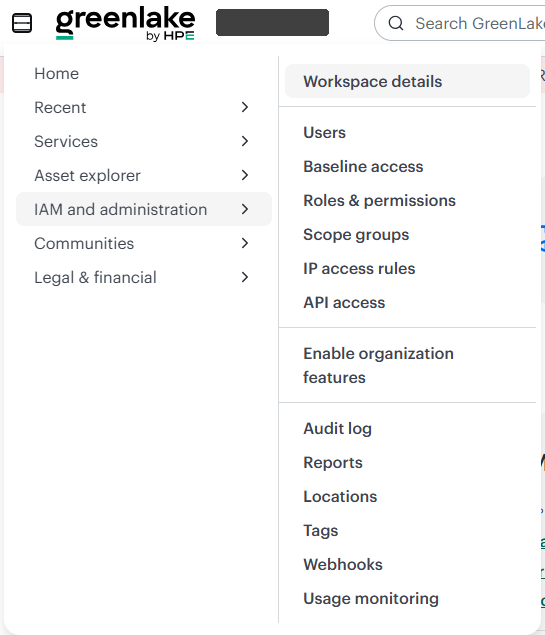
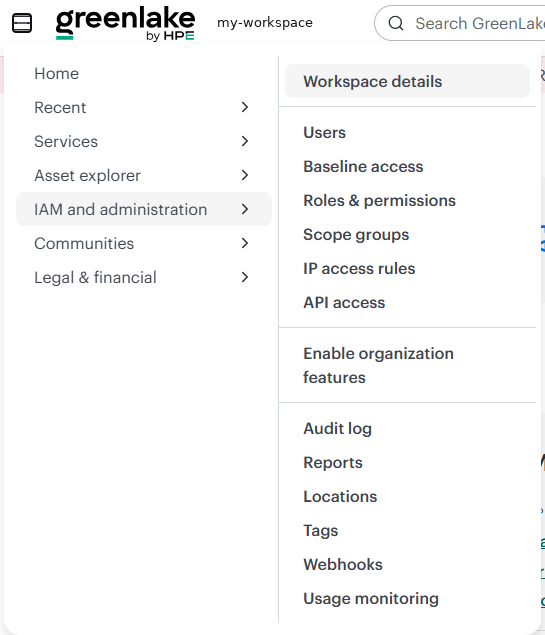
Docs: example values in every screenshot; the plugin in the Morpheus UI
- Screenshots use consistent example values (host-a, cluster-a,
  XYZ0000001, 192.0.2.21, workspace my-workspace) instead of blocks.
- README: annotated host and cluster pages from a real Morpheus 9.0.1
  appliance and a "See it in Morpheus" section.
- INSTALL: example-values table and the settings screenshot (step 4).
- SCREENSHOT-SPEC, CONTRIBUTING and the bug template describe the rule.

Changed region(s): [[0.3743, 0.0, 0.6239, 0.0598]]

diff --git a/docs/INSTALL.md b/docs/INSTALL.md
@@ -4,7 +4,17 @@
 
 This guide assumes you've never installed a Morpheus plugin or created a GreenLake API client before. Every step says where to click and what you should see. Allow about 20 minutes.
 
-*The screenshots are from a real Morpheus 9.0.1 appliance and GreenLake workspace, with names, addresses and ids blocked out.*
+*The screenshots are from a real Morpheus 9.0.1 appliance and GreenLake workspace. Names, addresses and ids are replaced with example values, and each example value means the same thing everywhere in this guide and the README:*
+
+| In the examples | Example value |
+|---|---|
+| GreenLake workspace | `my-workspace`, workspace ID `4f2a9c7e1b8d4e6fa3c5d7e9b1f20a64` |
+| API client ID | `7c3e8a12-5b4f-4d9e-a6c1-2f8b0d4e9a37` |
+| Morpheus appliance | `morpheus.example.com`, signed in as `admin` (shown as **Admin User**) |
+| Cloud, cluster and site tag | `cloud-a`, `cluster-a`, `site-a` |
+| Hosts and their serial numbers | `host-a`, `host-b`, `host-c`; `XYZ0000001`, `XYZ0000002`, `XYZ0000003` |
+| host-a's iLO | `192.0.2.21`, `ilo-host-a.example.com` |
+| COM region | US West (`us-west`) |
 
 ## Before you start
 
@@ -30,9 +40,9 @@ The workspace ID tells GreenLake which workspace the plugin's sign-in is for. Wi
 
    ![GreenLake menu: IAM and administration, Workspace details](images/install-01-greenlake-menu.png)
 
-3. Copy the **Workspace ID**. It's 32 letters and digits. Paste it into a note for step 4.
+3. Copy the **Workspace ID**. It's 32 letters and digits, like `4f2a9c7e1b8d4e6fa3c5d7e9b1f20a64` in the example below. Paste it into a note for step 4.
 
-   ![Workspace details, with the Workspace ID (values blocked out)](images/install-02-workspace-id.png)
+   ![Workspace details, with the Workspace ID (example values)](images/install-02-workspace-id.png)
 
 ## 2. Create an API client (GreenLake)
 
@@ -48,12 +58,12 @@ The workspace ID tells GreenLake which workspace the plugin's sign-in is for. Wi
 
    ![Create personal API client: name and service](images/install-04-create-client.png)
 
-5. Click **Create personal API client**. GreenLake now shows the **Issuer URL**, the **Client ID** and the **Secret**. Copy the client ID and the secret into your note.
+5. Click **Create personal API client**. GreenLake now shows the **Issuer URL**, the **Client ID** and the **Secret**. Copy the client ID and the secret into your note. In the example below, the client ID is `7c3e8a12-5b4f-4d9e-a6c1-2f8b0d4e9a37`.
 
-   ![Personal API client created: issuer URL, client ID and secret (values blocked out)](images/install-05-client-created.png)
+   ![Personal API client created: issuer URL, client ID and secret (example values)](images/install-05-client-created.png)
 
    - **The secret is shown only once.** If you lose it, create a new client.
-   - The **Issuer URL** ends in `/oauth2/<workspace ID>/token`: that's the same workspace ID as in step 1, a handy way to double-check it.
+   - The **Issuer URL** ends in `/oauth2/<workspace ID>/token`: that's the same workspace ID as in step 1 (`4f2a9c7e1b8d4e6fa3c5d7e9b1f20a64` in the examples), a handy way to double-check it.
    - You don't need **Generate access token**: the plugin makes its own tokens.
 
 ## 3. Upload the plugin (Morpheus)
@@ -76,24 +86,24 @@ The workspace ID tells GreenLake which workspace the plugin's sign-in is for. Wi
 1. In **Administration → Integrations → Plugins**, click the pencil icon on the **com-morpheus** row. The **Edit Plugin** window opens.
 2. Fill in:
 
-<!-- SCREENSHOT install-settings.png: the com-morpheus Edit Plugin window, filled in (client ID and workspace ID blocked out) -->
-
 | Setting | What to enter |
 |---|---|
 | COM API region URL | `https://us-west.api.greenlake.hpe.com`, `https://eu-central.api.greenlake.hpe.com` or `https://ap-northeast.api.greenlake.hpe.com` (from "Before you start") |
-| API client ID | from step 2 |
+| API client ID | from step 2 (`7c3e8a12-5b4f-4d9e-a6c1-2f8b0d4e9a37` in the examples) |
 | API client secret | from step 2 |
-| GreenLake workspace ID | from step 1 |
+| GreenLake workspace ID | from step 1 (`4f2a9c7e1b8d4e6fa3c5d7e9b1f20a64` in the examples) |
 | Token URL override | leave blank |
 | MSP tenant ID (Tenant-Acid) | leave blank, unless you use an MSP workspace |
 | COM web UI URL | leave blank (set it only if **Open in COM** opens the wrong region) |
-| HTTP proxy for GreenLake | blank, or `http://proxy:port` if the appliance needs a proxy (no proxy authentication) |
+| HTTP proxy for GreenLake | blank, or `http://proxy.example.com:3128` if the appliance needs a proxy (no proxy authentication) |
 | Only show to roles with the com-morpheus permission | off: everyone who can see a host or cluster sees its tab. On: only roles granted the permission in step 5. |
 | Enable actions | off: the tab is read-only. On: roles with **Run HPE COM actions** see the buttons (UID light, Collect inventory, iLO reset, COM maintenance). See [Why these actions](../README.md#why-these-actions). |
 | Show the tab on non-HPE hosts | off. Turn it on only for troubleshooting. |
 | Show plugin route diagnostics | off. Turn it on only for troubleshooting. |
 
 3. Click **Save Changes**.
+
+   ![The com-morpheus Edit Plugin window, filled in with the example values from steps 1 and 2 and a proxy](images/install-14-settings.png)
 
 ## 5. Permissions
 
@@ -120,8 +130,10 @@ People who look after hardware often need the HPE COM tabs, and maybe the button
 2. In a terminal, in the folder where you saved it, run:
 
    ```bash
-   python3 create-com-user.py <morpheus-ip-or-hostname>
+   python3 create-com-user.py morpheus.example.com
    ```
+
+   Use your appliance's host name or IP address in place of `morpheus.example.com`.
 
 3. Answer the prompts:
    - **Certificate:** if the appliance uses a self-signed certificate, the script shows its fingerprint and asks whether to trust it for this run. Compare it with the appliance's certificate if you can, then answer `y`.
@@ -138,7 +150,7 @@ People who look after hardware often need the HPE COM tabs, and maybe the button
    - creates the user, if you asked for one;
    - deletes the admin token it used, where your Morpheus version allows.
 
-Here's a real run on Morpheus 9.0.1, choosing option 2 (admin name blocked out):
+Here's a real run on Morpheus 9.0.1, choosing option 2, signed in as `admin`:
 
 ![A run of create-com-user.py: role hpe-com-operator and user hpe-com-operator-user created](images/install-08-com-user-script.png)
 
@@ -160,20 +172,20 @@ Give the username and password to the person who needs it. They sign in to Morph
 
 1. Open a physical HPE host: **Infrastructure → Compute → (host)**. Morpheus puts extra tabs under the **▼** menu at the right end of the tab row, so look there for **HPE COM**.
 
-   ![A host page with the ▼ menu open: HPE COM is in it (names blocked out)](images/install-11-host-menu.png)
+   ![The host-a page with the ▼ menu open: HPE COM is in it (example values)](images/install-11-host-menu.png)
 
 2. The very first time (and after Morpheus or the plugin restarts) the tab says it's **matching hosts to HPE Compute Ops Management**. It reads the COM server list and each server's inventory, which takes up to a minute. Open the tab again.
 
-   ![The HPE COM tab the first time: Matching hosts to HPE Compute Ops Management (names blocked out)](images/install-10-first-match.png)
+   ![host-a's HPE COM tab the first time: Matching hosts to HPE Compute Ops Management (example values)](images/install-10-first-match.png)
 
 3. You should see the server as COM sees it, with **Match: confirmed by MAC**, and the seven sub-tabs: Summary, Health, Firmware, Hardware, Storage, Support and Alerts.
 
-   ![A host's HPE COM tab on Morpheus 9.0.1, with the action buttons (names, serials, addresses and ids blocked out)](images/install-12-host-tab.png)
+   ![host-a's HPE COM tab on Morpheus 9.0.1, with the action buttons: serial XYZ0000001, iLO 192.0.2.21 (example values)](images/install-12-host-tab.png)
 
 4. If **Enable actions** is on and your role has **Run HPE COM actions**, the buttons appear above the sub-tabs (reload the page after changing the setting). Try **UID light on** first: it only lights the blue locator LED on the server, and the status beside the buttons follows the COM job until it's done. The Summary sub-tab's **UID indicator** then reads **On**. **UID light off** turns it off again.
 5. Open a cluster: **Infrastructure → Clusters → (cluster)**, then its **HPE COM** tab. It lists every host in the cluster with its COM match, health, power, active alerts, support state and COM maintenance mode, with totals at the top.
 
-   ![A cluster's HPE COM tab on Morpheus 9.0.1 (names and serials blocked out)](images/install-13-cluster-tab.png)
+   ![cluster-a's HPE COM tab on Morpheus 9.0.1: host-a, host-b and host-c (example values)](images/install-13-cluster-tab.png)
 
 How the pieces fit together is shown in the [How it works](../README.md#how-it-works) infographic.
 
@@ -186,7 +198,7 @@ How the pieces fit together is shown in the [How it works](../README.md#how-it-w
 | Couldn't reach COM | The appliance can't reach GreenLake: check DNS and the firewall (see "Before you start"), or set the HTTP proxy. |
 | No HPE COM tab on a host | Look under the **▼** menu at the right end of the tab row. The tab appears only on hypervisor hosts whose hardware vendor is HPE. Turn on "Show the tab on non-HPE hosts" to see what the plugin sees. |
 | rate limited by COM | GreenLake throttled the client. Wait the time shown; the plugin caches to keep calls low. |
-| No matching server | None of the host's MACs are in COM's inventory: the server isn't onboarded in this workspace, or its inventory is old. Add `com-serial=<serial>` as a tag on the host. |
+| No matching server | None of the host's MACs are in COM's inventory: the server isn't onboarded in this workspace, or its inventory is old. Add `com-serial=<serial>` as a tag on the host (for example `com-serial=XYZ0000001` on host-a). |
 | more than one COM server | Shared or moved NICs. Add `com-serial=<serial>` to the host. |
 | Match: probable | Only some MACs match (a replaced NIC, or a stale COM inventory). Confirm with `com-serial=<serial>` (actions then work if at least one MAC matches that server and none match another), or run an inventory collection in COM. |
 | "Actions on a tag-matched host need the tag to agree with the host's hardware" | The `com-serial` / `com-id` tag names a server whose inventory has none of this host's MACs, or another server has some of them. Collect inventory in COM, or correct or remove the tag. |

diff --git a/docs/images/SCREENSHOT-SPEC.md b/docs/images/SCREENSHOT-SPEC.md
@@ -1,42 +1,50 @@
 # Screenshot specification
 
-The tab screenshots in this folder (`tab-*.png` and `cluster-summary.png`) are **rendered from anonymized test data**. The `install-*.png` screenshots come from a real Morpheus 9.0.1 appliance and GreenLake workspace, supplied by the owner and redacted with solid blocks before they were committed. They contain no customer or corporate information, and they're regenerated with `PREVIEW_OUT`. Only the shots below need a real Morpheus instance. They come from a corporate system, so they must be redacted strictly before they're added.
+There are two kinds of screenshot in this folder:
 
-## Shots wanted
+- **Rendered:** `tab-*.png` and `cluster-summary.png`. They are rendered from the plugin's test data (`PREVIEW_OUT` in `LiveChecksSpec`). When they're captured, the test data's names, serial numbers and addresses are swapped for the example values below.
+- **Real:** `install-*.png`, `morpheus-host-page.png` and `morpheus-cluster-page.png`. They come from a real Morpheus 9.0.1 appliance and GreenLake workspace, supplied by the maintainer. Every sensitive value is **painted over with an example value** before the image is committed. The browser's address bar and tabs are cropped off.
 
-| File | Where | Show | Purpose |
-|---|---|---|---|
-| `morpheus-plugin-list.png` | Administration → Integrations → Plugins | The com-morpheus row only (name, description, version, enabled) | Install guide, step 2 |
-| `morpheus-plugin-settings.png` | The plugin's **Edit** dialog | The whole settings form, with test values (see below) | Install guide, step 3 |
-| `morpheus-role-permissions.png` | Administration → Roles → a test role → Permissions, filtered to "com-morpheus" | The two com-morpheus permissions and their levels | Install guide, step 4 |
-| `morpheus-host-tab.png` | Infrastructure → Hosts → a physical HPE host → **HPE COM** tab | The host header and the tab strip with HPE COM selected, plus the top of the tab | README: shows the tab inside Morpheus |
-| `morpheus-action-running.png` (optional) | Same tab, just after **UID light on** | The action bar with its status text ("UID light on: RUNNING…" or "…done") | Install guide, step 5 |
+## Example values
 
-## Before you capture
+Use these and nothing else, so a reader sees the same name for the same thing in every image and every section of the docs:
 
-- Use **placeholder values** in the settings dialog wherever possible, rather than redacting real ones. For example: client ID `00000000-0000-0000-0000-000000000000`, workspace ID blank, proxy blank. The secret field shows dots, but blank it or use a dummy anyway.
-- Use the **light theme**, browser zoom **100%**, and a window about **1280 px** wide.
-- **Crop to the content area.** Leave out the browser tabs, address bar, bookmarks, the OS taskbar and Morpheus's top bar: it shows your **name, tenant and search history**.
-- Save as **PNG**. PNG has no camera metadata, but don't add any.
+| Thing | Example value |
+|---|---|
+| GreenLake workspace name / ID | `my-workspace` / `4f2a9c7e1b8d4e6fa3c5d7e9b1f20a64` |
+| Issuer URL | `https://global.api.greenlake.hpe.com/authorization/v2/oauth2/4f2a9c7e1b8d4e6fa3c5d7e9b1f20a64/token` |
+| API client ID / secret | `7c3e8a12-5b4f-4d9e-a6c1-2f8b0d4e9a37` / `a1B2c3D4e5F6g7H8i9J0k1L2m3N4o5P6` |
+| Workspace address, phone, email | `1 Example Way, Example City 00000`, `555-555-0100`, `storage-admin@example.com` |
+| Morpheus appliance and login | `morpheus.example.com`; username `admin`, display name **Admin User** (initials AU) |
+| Cloud, cluster, site tag | `cloud-a`, `cluster-a`, `site-a` |
+| Hosts | `host-a`, `host-b`, `host-c` (then `host-d`... for larger examples) |
+| Serial numbers | `XYZ0000001` for host-a, `XYZ0000002` for host-b, and so on |
+| host-a's iLO | `192.0.2.21`, `ilo-host-a.example.com` |
+| host-a's UUID | `3a7f1c2e-9b4d-4e6a-8c1f-5d2b7e9a0c41` |
+| Other IP addresses | `192.0.2.x` (the documentation range) |
 
-## Redact all of these (solid boxes only)
+The workspace, client and email values are shared with [dscc-morpheus-plugin](https://github.com/grahamfairbank/dscc-morpheus-plugin), whose install guide shows the same GreenLake screens.
 
-Cover with an **opaque solid rectangle** (black or gray). **Do not** blur, pixelate or use semi-transparent highlights: those can be reversed or read.
+## What to replace
 
 | Category | Examples on these screens |
 |---|---|
-| People | Your name, user names, email addresses, the avatar or initials in the top bar, "owner" fields |
-| Organization | Tenant, cloud, group, cluster and site names; GreenLake workspace name or ID; company or domain names |
-| Hosts | Host names and FQDNs, IP addresses, the appliance URL, iLO names and addresses, the iSCSI IQN |
-| Hardware identity | Serial numbers, UUIDs, COM ids (they contain the serial), MAC addresses, asset tags, product IDs, if you prefer |
-| Accounts and keys | API client ID, workspace ID, tokens, subscription keys, license keys |
+| People | Names, user names, email addresses; the initials beside the name in the top bar |
+| Organization | Tenant, cloud, group, cluster and site names; GreenLake workspace name or ID; company or domain names, addresses and phone numbers |
+| Hosts | Host names and FQDNs, IP addresses, the appliance URL, iLO names and addresses |
+| Hardware identity | Serial numbers, UUIDs, COM ids (they contain the serial), MAC addresses |
+| Accounts and keys | API client ID and secret, tokens, subscription and license keys |
 | Content | Alert texts or messages that name hosts or people |
-| Version banner | Optional: the appliance version and build in the footer, if your policy treats them as sensitive |
 
-When unsure, redact it. A screenshot with more boxes is better than one that leaks.
+**Paint the example value in place of the real one**: clear the text with the background color of that spot and write the example in a similar size and color. Block out only things that aren't text: photos, avatars, other companies' logos. Never blur: it can sometimes be reversed.
 
-## Check before sending
+## Shots wanted
 
-1. Zoom to 200% and look at every box: no characters should show around the edges.
-2. Search the image for anything readable outside the content you meant to show.
-3. Send the files themselves (not a document with the images pasted in), so they can be checked once more before they're committed.
+None at the moment. New shots go in `docs/images` as `install-NN-<what>.png` (install guide) or a descriptive name (README).
+
+## Before you capture
+
+- Type the **example values** into forms wherever you can (client ID, workspace ID), so there's less to paint over. The secret field shows dots; use a dummy anyway.
+- Use the **light theme**, browser zoom **100%**, and a window about **1920 px** wide.
+- Save as **PNG**.
+- Send the files themselves (not a document with the images pasted in), so they can be checked and painted before they're committed.

diff --git a/README.md b/README.md
@@ -9,9 +9,9 @@
 
 > **Unofficial community project.** Not an HPE or Morpheus Data product. Not developed, endorsed or supported by Hewlett Packard Enterprise. Provided as is, without warranty. HPE, HPE GreenLake, Compute Ops Management, Morpheus, VM Essentials, ProLiant and iLO are trademarks of Hewlett Packard Enterprise; see [NOTICE.md](NOTICE.md) for trademarks and for every source this project was built from.
 
-![Cluster summary: every host in a cluster with its COM health, alerts, support and maintenance state](docs/images/cluster-summary.png)
+![cluster-a in Morpheus 9.0.1 with the plugin's HPE COM tab: totals at the top, then every host with its COM match, model, serial, health, power, active alerts, support and maintenance state](docs/images/morpheus-cluster-page.png)
 
-*All screenshots are rendered from anonymized test data.*
+<sub>A real Morpheus 9.0.1 appliance with three ProLiant servers in COM. **①** The plugin's HPE COM tab on the cluster page. **②** Totals for the whole cluster. **③** Every host, its COM health, power, alerts, support contract and COM maintenance state, with a link to the server in COM. **④** Straight from HPE Compute Ops Management, at most a minute old. Names and serial numbers are example values.</sub>
 
 ## Why you'll want it
 
@@ -20,7 +20,8 @@
 - **Nothing to install on your hosts.** The plugin matches each Morpheus host to its COM server using the network-adapter MAC addresses both systems already know. No agents, no SSH, no IPMI, no iLO credentials in Morpheus.
 - **Safe, one-click fixes.** Light the UID LED to find the box, refresh COM's inventory, reset a stuck iLO, or put a server into COM maintenance before hardware work. Every button restores, observes or refreshes; none reconfigures. [Why these actions?](#why-these-actions)
 - **Secure by design.** The API secret never leaves the Morpheus appliance. Buttons are off by default and gated by a Morpheus role permission. Every action request passes a chain of server-side checks. Two independent security reviews have been done, and every finding is fixed. [Security details](#security)
-- **Drop-in.** One jar for Morpheus 9.0 and 9.1, with a settings form, two role permissions, and a test suite that runs against both plugin APIs.
+- **Drop-in.** One jar for Morpheus 9.0 and 9.1, with a settings form, two role permissions, and a test suite that runs against both plugin APIs. 0.4.2 is tested on a real Morpheus 9.0.1 appliance against the live COM API.
+- **Keeps working when COM changes.** When the live COM API drifted from its published reference in October 2026, 0.4.2 adapted the same day: smaller pages, fallback reads and the newer GreenLake sign-in. See [Known issues](#known-issues).
 
 ## Get started
 
@@ -31,7 +32,36 @@
 
 Step-by-step instructions: **[docs/INSTALL.md](docs/INSTALL.md)**. How the pieces fit together: **[How it works](#how-it-works)**.
 
-## Tour
+## See it in Morpheus
+
+These screens are from a real Morpheus 9.0.1 appliance. Names, serial numbers and addresses are replaced with example values (`host-a`, `XYZ0000001`, `192.0.2.21`), the same ones the [install guide](docs/INSTALL.md) uses, so you can follow one server from screen to screen.
+
+### Every HPE host gets an HPE COM tab
+
+![host-a in Morpheus with the HPE COM tab open: status chips, action buttons, seven sub-tabs and the server's COM summary](docs/images/morpheus-host-page.png)
+
+1. **The HPE COM tab** sits beside Morpheus's own tabs on every physical HPE hypervisor host.
+2. **Status at a glance:** COM health, iLO security, active alerts, power, and how the host was matched to its COM server (here, every MAC address agrees).
+3. **One-click actions** (optional, off by default): UID light, Collect inventory, iLO reset and COM maintenance, run as COM jobs with live progress.
+4. **Seven sub-tabs** mirror the server's page in COM: Summary, Health, Firmware, Hardware, Storage, Support and Alerts.
+5. **Open in COM** and **Open iLO** take you straight to the server in COM or to its iLO.
+6. **The server as COM sees it:** serial, iLO, firmware baseline, OS, subscription and more, without leaving Morpheus.
+
+### Every cluster gets a rollup
+
+The cluster tab at the top of this page answers "is anything wrong in this cluster?" in one look. When something needs attention, it says so. Here's a larger example, rendered from the plugin's test data: a warning, active alerts, an expired support contract, a server in COM maintenance and a host COM doesn't know.
+
+![A seven-host cluster summary: one warning, alerts on two hosts, one expired support contract, one host in COM maintenance and one host not in COM](docs/images/cluster-summary.png)
+
+### Where to find it
+
+Morpheus puts extra tabs under the **▼** at the right end of the tab row. The plugin's tab is called **HPE COM**:
+
+![The host-a page in Morpheus with the ▼ menu open, showing HPE COM](docs/images/install-11-host-menu.png)
+
+## Tour of the host tab
+
+<sub>Rendered from the plugin's test data, with the same example values as above.</sub>
 
 **Host tab.** The COM server page, mirrored in seven sub-tabs, with links to COM and the iLO and optional action buttons:
 
@@ -49,7 +79,7 @@ Step-by-step instructions: **[docs/INSTALL.md](docs/INSTALL.md)**. How the piece
 |---|---|---|
 | ![Firmware](docs/images/tab-firmware.png) | ![Support](docs/images/tab-support.png) | ![Alerts](docs/images/tab-alerts.png) |
 
-## What it does (0.4.1)
+## What it does (0.4.2)
 
 - **Appears only where it makes sense:** on hypervisor hosts whose hardware vendor is HPE and that aren't virtual machines.
 - **Finds the matching COM server automatically.** Morpheus already stores each host's factory network-adapter MAC addresses, and COM's inventory lists the same adapters. The plugin matches them, so it never needs access to the host itself. For special cases, a `com-serial=<serial>` or `com-id=<COM id>` tag on the host overrides the match.
@@ -109,7 +139,7 @@ Power on, power off, restart, firmware updates and configuration changes are **n
 - A GreenLake **API client** for Compute Ops Management. Ideally it belongs to a dedicated GreenLake account, because the plugin acts as that account (see [Security](#security)).
   - A view-only COM role is enough for the tab.
   - The action buttons need a COM role that can run server jobs.
-- Outbound HTTPS from the Morpheus appliance to `sso.common.cloud.hpe.com` and `<region>.api.greenlake.hpe.com`. A proxy is supported.
+- Outbound HTTPS from the Morpheus appliance to `<region>.api.greenlake.hpe.com`, `global.api.greenlake.hpe.com` and `sso.common.cloud.hpe.com`. A proxy is supported.
 
 ## Download
 

diff --git a/CONTRIBUTING.md b/CONTRIBUTING.md
@@ -33,7 +33,7 @@ Useful opt-in checks:
   - Actions that reconfigure servers or change power need a design discussion in an issue first. See [Why these actions](README.md#why-these-actions).
 - **The plugin never runs commands on hosts.**
 - **Tests:** add or update Spock specs for behavior changes. The fixtures in `src/test/resources/fixtures` are anonymized, so keep them that way.
-- **No real data in issues, PRs, fixtures or screenshots.** Redact serial numbers, UUIDs, IPs, MACs, host and tenant names, API client IDs and tokens. Use solid boxes, not blur (see [docs/images/SCREENSHOT-SPEC.md](docs/images/SCREENSHOT-SPEC.md)).
+- **No real data in issues, PRs, fixtures or screenshots.** Replace serial numbers, UUIDs, IPs, MACs, host and tenant names, API client IDs and tokens with the example values the docs use (`host-a`, `XYZ0000001`, `192.0.2.x`, `example.com`; full list in [docs/images/SCREENSHOT-SPEC.md](docs/images/SCREENSHOT-SPEC.md)). In screenshots, paint the example value over the real one. Never blur.
 - **Licenses:**
   - Don't copy code or text from sources whose license doesn't allow it.
   - The Morpheus plugin API is compile-only and must never be bundled into the jar.

diff --git a/CHANGELOG.md b/CHANGELOG.md
@@ -1,5 +1,9 @@
 # Changelog
 
+## Unreleased
+
+- **Docs:** the screenshots use example values (`host-a`, `cluster-a`, `XYZ0000001`, `192.0.2.21`, workspace `my-workspace`) instead of blocked-out text, and the same value means the same thing in every image and section. The README shows the plugin in the Morpheus UI: annotated host and cluster pages from a real 9.0.1 appliance. The install guide lists the example values up front.
+
 ## 0.4.2 (2026-10-29)
 
 HPE tightened the Compute Ops Management API on October 29, 2026, and 0.4.1 broke on host tabs and in the cluster summary. The COM console itself kept working. This release adapts to the live API. The published API reference hasn't changed, so each change is noted under [Known issues](README.md#known-issues).
